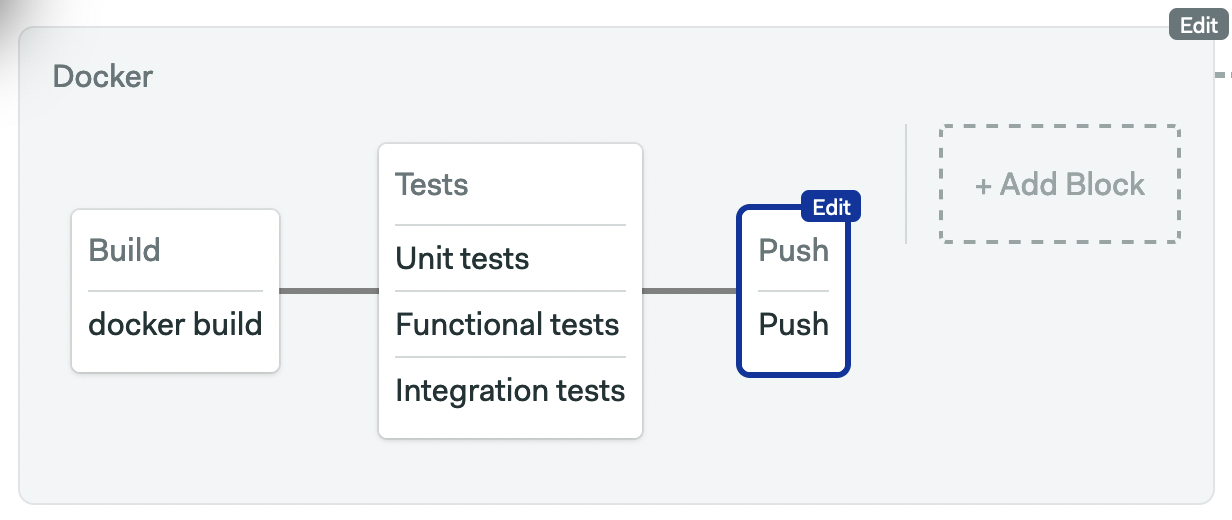
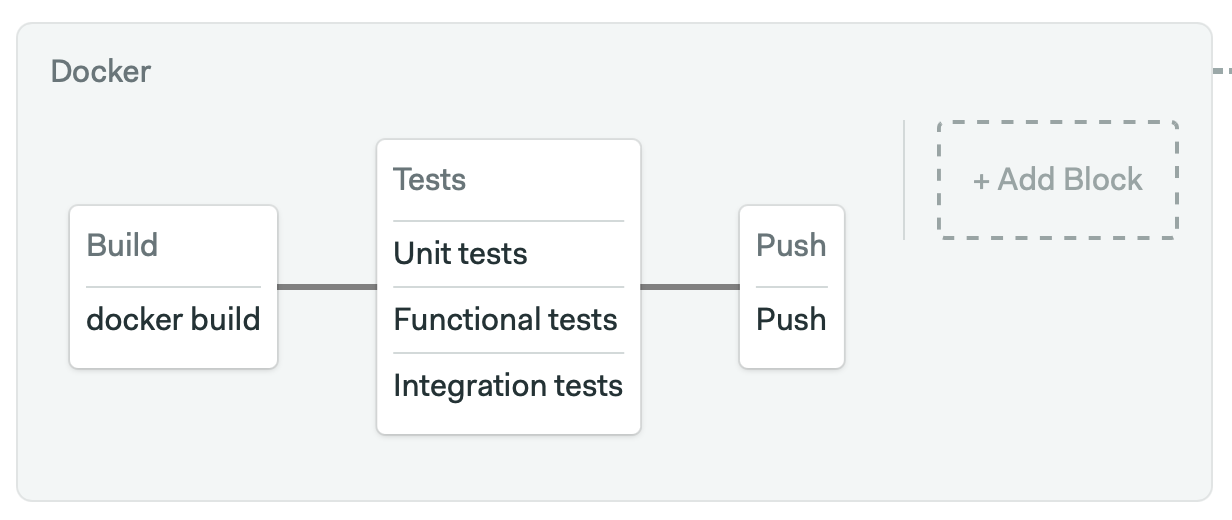
update screenshots, add container steps for DO

diff --git a/chapters/07-tutorial-clouds.md b/chapters/07-tutorial-clouds.md
@@ -8,12 +8,7 @@ We’ll deploy the application in a three-node Kubernetes cluster. You can pick 
 
 #### 4.5.1 DigitalOcean Cluster
 
-**DigitalOcean provides a managed Kubernetes service but lacks a private Docker registry[^do-private-reg], so we’ll use Docker Hub for the images.**
-
-[^do-private-reg]: At the time of writing, DigitalOcean announced a beta for a private registry offering. For more information, consult the available documentation: _<https://www.digitalocean.com/docs/kubernetes/how-to/set-up-registry>_
-
-  - **Sign up for a free account on [hub.docker.com](https://hub.docker.com).**
-  - **Create a public repository called “semaphore-demo-cicd-kubernetes”.**
+DigitalOcean provides everything needed to deploy the application: a managed Kubernetes, a Container Registry, and Postgres databases. 
 
 To create the Kubernetes cluster:
 
@@ -23,6 +18,13 @@ To create the Kubernetes cluster:
   -  While DigitalOcean is working on the cluster, go to *API* menu and generate a *Personal Access Token* with Read & Write permissions.
   - To finalize, go to *Container Registry* and create a starter repository. Set the repository name, which is globally unique, and remember it for the next chapter.
 
+Next, create a Container Registry with the following actions:
+
+- Go to *Container Registry*.
+- Click *Create*.
+- Set the registry name. Names are unique across all DigitalOcean customers.
+- Select the *Starter* free plan.
+
 On Semaphore, store the DigitalOcean Access Token as a secret:
 
 1.  Log in to your organization on [id.semaphoreci.com](https://id.semaphoreci.com).
@@ -30,11 +32,6 @@ On Semaphore, store the DigitalOcean Access Token as a secret:
 3.  The name of the secret is “do-key”.
 4.  Add the `DO_ACCESS_TOKEN` variable and set its value with your personal token.
 5.  Click on *Save Secret*.
-
-**Repeat the last steps to add the second secret, call it “dockerhub” and add the following variables:**
-
-  - **`DOCKER_USERNAME` for your DockerHub user name.**
-  - **`DOCKER_PASSWORD` with the corresponding password.**
 
 #### 4.5.2 Google Cloud Cluster
 

diff --git a/chapters/08-tutorial-deployment.md b/chapters/08-tutorial-deployment.md
@@ -20,6 +20,7 @@ Check the *Enable automatic promotion* box. Now we can define the following auto
 result = 'passed' and (branch = 'master' or tag =~ '^hotfix*')
 ```
 
+
 ![Automatic promotion](./figures/05-sem-canary-auto-promotion.png){ width=95% }
 
 Below the promotion options, click on *+ Add Environment Variables* to create a parameter for a pipeline. Parametrization let us set runtime values and reuse a pipeline for similar tasks.
@@ -166,14 +167,13 @@ Here is the moment of truth. Will the canary work? Click on *Run the workflow* a
 Wait until the CI pipeline is done an click on *Promote* to start the canary pipeline[^no-autopromotion]. As you can see on the screenshot below, manually starting a promotion lets you customize the parameters.
 
 
-
 [^no-autopromotion]: You might be wondering why the automatic promotion hasn’t kicked in for the canary pipeline. The reason is that we set it to trigger only for the master branch, and the Workflow Builder by default saves all its changes on a separate branch called `setup-semaphore`.
 
-![Canary Promote](./figures/08-promote1.png){ width=60% }
+![Canary Promote](./figures/08-promote1.png){ width=95% }
 
 Press *Start Promotion* to run the canary pipeline.
 
-![Canary Pipeline](./figures/05-sem-canary-pipeline.png){ width=60% }
+![Canary Pipeline](./figures/05-sem-canary-pipeline.png){ width=95% }
 
 Once it completes, we can check how the canary is doing.
 
@@ -194,7 +194,7 @@ Let’s say we decide to go ahead. So go on and hit the *Promote* button, you ca
 
 The stable pipeline should be done in a few seconds.
 
-![Stable Pipeline](./figures/05-sem-stable-pipeline.png){ width=60% }
+![Stable Pipeline](./figures/05-sem-stable-pipeline.png){ width=95% }
 
 If you're fast enough, while the block runs you can see both the existing canary and a new “addressbook-stable” deployment.
 

diff --git a/chapters/01-introduction.md b/chapters/01-introduction.md
@@ -75,12 +75,13 @@ Chapter 4, "A Complete CI/CD Pipeline", is a step-by-step guide to implementing 
 A few changes were introduced in this second edition:
 
 - Moved to Kubernetes version v1.20. All commands and actions were tested with this version.
-- Added note about accessing services in local development Kubernetes clusters.
-- Added mentions of new CI/CD features: parametrized pipelines, test results, code change detection.
-- DigitalOcean deployment now uses their Private Container Registry service instead of GitHub.
+- Added comments about accessing services in local development Kubernetes clusters.
+- Added mention of new CI/CD features in Semaphore: parametrized pipelines, test results, code change detection.
+- DigitalOcean deployment now uses their Private Container Registry service instead of Docker Hub.
 - Updated setup steps for DigitalOcean, Google Cloud, and AWS.
 - Updated UI screenshots using higher resolution.
-- Minor fixes.
+- Modified deployment tutorial to use parametrized promotions.
+- Other minor fixes.
 
 ## How to Contact Us
 

diff --git a/chapters/06-tutorial-semaphore.md b/chapters/06-tutorial-semaphore.md
@@ -208,7 +208,7 @@ docker run --net=host -it \
 
 This last test runs the code in `src/database.test.js`, which checks if the application can write and delete rows in the database.
 
-![Test block](./figures/05-sem-test-block.png){ width=95% }
+![Test block](./figures/05-sem-test-block.png){ width=80% }
 
 Create the third block in the pipeline and call it “Push”. This last job will tag the current Docker image as `latest`. Type these commands in the job:
 
@@ -236,7 +236,7 @@ This completes the setup of the CI pipeline.
 
 We’ve covered a lot of things in a few pages; here, we have the chance to pause for a little bit and try the CI pipeline. Click on the *Run the workflow* button on the top-right corner and then click on *Start*.
 
-![Run this workflow](./figures/05-sem-run-workflow.png){ width=95% }
+![Run this workflow](./figures/05-sem-run-workflow.png){ width=80% }
 
 After a few seconds the pipeline will start building and testing the container.
 
